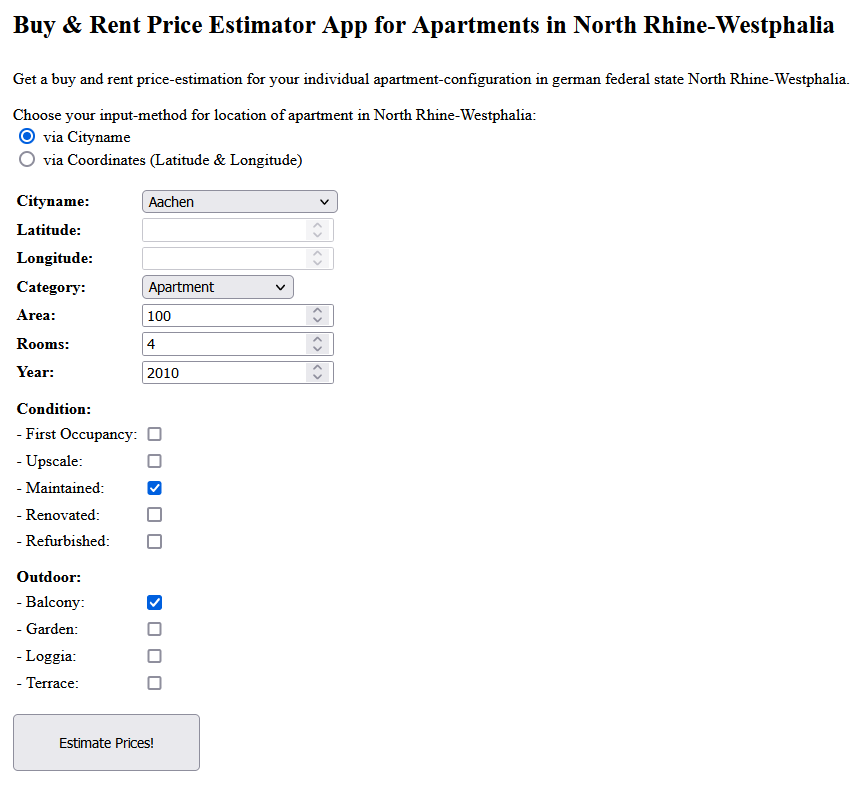
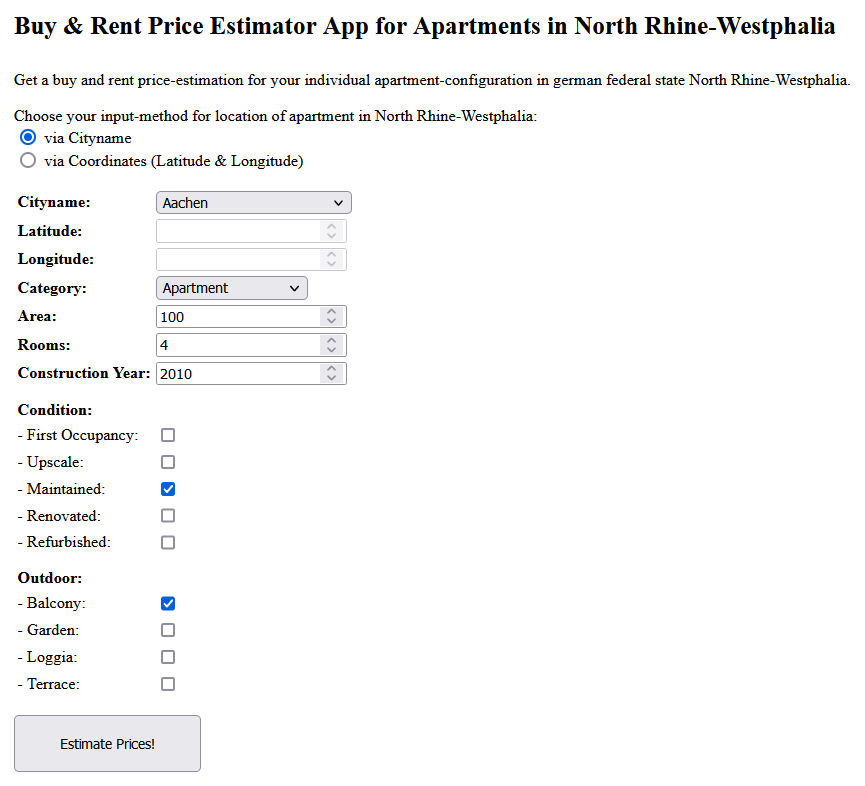
changed shown 'Year' to 'Construction Year'

Changed region(s): [[0.0, 0.0916, 0.9965, 0.9771], [0.0, 0.0, 0.9663, 0.0611]]

diff --git a/app.py b/app.py
@@ -60,7 +60,10 @@ def dictToHTMLTable(dictionary, specialKeys):
     dict_HTML = """<table>"""
     for key in dictionary:
         if key != "chooseLocation": #shall not be listed in html-table
-            dict_HTML += """<tr><td><b>""" + key + """: </b></td>"""
+            if key !="Construction_Year":
+                dict_HTML += """<tr><td><b>""" + key + """: </b></td>"""
+            else: #Shown name of Construction_Year shall be 'Construction Year'
+                dict_HTML += """<tr><td><b>Construction Year: </b></td>"""            
             if key not in specialKeys:
                 dict_HTML += """<td>""" + dictionary[key] + """</td>"""
             else:
@@ -167,8 +170,8 @@ def predict():
                         <td><input type="number" name="Rooms" min="1" max="7" step="1" value="4"></td>
                       </tr>
                       <tr>
-                        <td><b>Year: </b></td>
-                        <td><input type="number" name="Year" min="1850" max="2021" step="1" value="2010"></td>
+                        <td><b>Construction Year: </b></td>
+                        <td><input type="number" name="Construction_Year" min="1850" max="2021" step="1" value="2010"></td>
                       </tr>
                       <tr>
                         <td></td>
@@ -252,7 +255,7 @@ def predict():
                 myform.addEventListener('submit', function (evt) {
                    let error = false; 
                    if (
-                           (myform.chooseLocation.value=='cityname' && myform.Cityname.value=='') || (myform.chooseLocation.value=='coordinates' && (myform.Latitude.value=='' || myform.Longitude.value=='')) || (myform.Area.value=='' || myform.Rooms.value=='' || myform.Year.value=='')
+                           (myform.chooseLocation.value=='cityname' && myform.Cityname.value=='') || (myform.chooseLocation.value=='coordinates' && (myform.Latitude.value=='' || myform.Longitude.value=='')) || (myform.Area.value=='' || myform.Rooms.value=='' || myform.Construction_Year.value=='')
                        ) {
                        error = true
                    }
@@ -288,7 +291,7 @@ def predict():
         # Create dictionary which maps numerical model-features to numerical formular-data-element-names
         map_num = {'Area': 'Area',
                    'Rooms': 'Rooms',
-                   'ConstructionYear': 'Year'
+                   'ConstructionYear': 'Construction_Year'
                   }
         # Create dictionary which maps categorical model-features to categorical formular-data-element-names
         map_cat = { 'EQ_CAT_floorApartment': ('Category', 'Floor-Apartment'),
